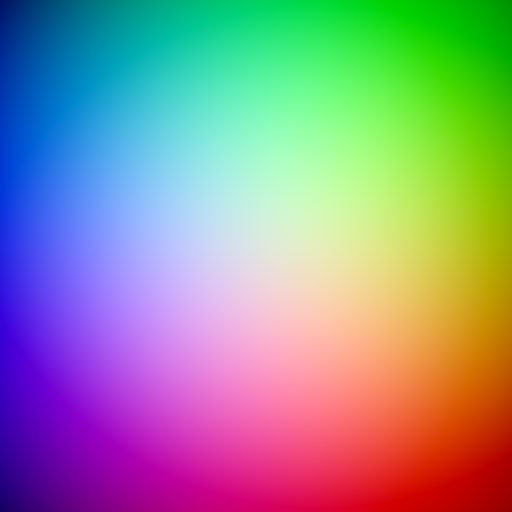
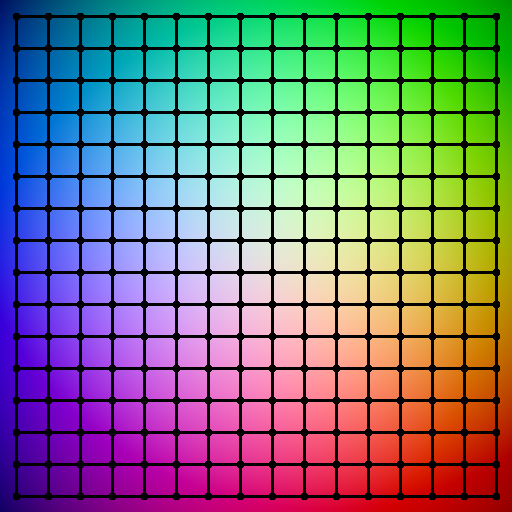
Add shapes file to graph maze shapes

Changed region(s): [[0.0312, 0.0312, 1.0, 1.0]]

diff --git a/shapes.py b/shapes.py
@@ -1,0 +1,88 @@
+from PIL import Image, ImageDraw
+from colors import colors
+
+class Node:
+
+  def __init__(self, coordinates=()):
+    self.coordinates = coordinates
+
+
+class Rectangle:
+
+  def __init__(self, x_units, y_units):
+    self.x_units = x_units
+    self.y_units = y_units
+    self.init_nodes_and_edges()
+
+  def init_nodes_and_edges(self):
+    self.nodes = set()
+    self.edges = set()
+    
+    # first node
+    if self.x_units >= 1 and self.y_units >= 1:
+      start_node = Node((0,0))
+      self.nodes.add(start_node)
+
+    # first row
+    start_row = []
+    prev_node = start_node
+    for x in range(1, self.x_units):
+      new_node = Node((x,0))
+      self.nodes.add(new_node)
+      self.edges.add(frozenset([new_node, prev_node]))
+      start_row.append(new_node)
+      prev_node = new_node
+
+    # first column
+    prev_col = []
+    prev_node = start_node
+    for y in range(1, self.y_units):
+      new_node = Node((0,y))
+      self.nodes.add(new_node)
+      self.edges.add(frozenset([new_node, prev_node]))
+      prev_col.append(new_node)
+      prev_node = new_node
+
+    # remaining grid
+    prev_x = start_row[0] if len(start_row) > 0 else None
+    for x in range(1, self.x_units):
+      new_col = []
+      prev_y = prev_col[0] if len(prev_col) > 0 else None
+      for y in range(1, self.y_units):
+        new_node = Node((x,y))
+        self.nodes.add(new_node)
+        self.edges.add(frozenset([new_node, prev_x]))
+        self.edges.add(frozenset([new_node, prev_y]))
+        new_col.append(new_node)
+        if y < self.y_units-1:
+          prev_y = prev_col[y]
+        prev_x = new_node
+      prev_col = new_col
+      if x < self.x_units-1:
+        prev_x = start_row[x] 
+
+  def calc_point(self, node, width, height):
+    x, y = node.coordinates
+    center_x = width//2
+    center_y = height//2
+    unit_length = min(width//self.x_units, height//self.y_units)
+    start_x = center_x - ((self.x_units-1) * unit_length)//2
+    start_y = center_y - ((self.y_units-1) * unit_length)//2
+    return (start_x + x*unit_length, start_y + y*unit_length)
+
+  def draw_rect(self, img):
+    width, height = img.size
+    point_radius = 3
+    draw = ImageDraw.Draw(img)
+    for node in self.nodes:
+      x, y = self.calc_point(node, width, height)
+      draw.ellipse(
+        (x-point_radius, y-point_radius, x+point_radius, y+point_radius),
+        fill=colors['black']
+      )
+    # TODO: move drawing edges to a new function
+    for edge in self.edges:
+      points = []
+      for node in edge:
+        points.append(self.calc_point(node, width, height))
+      draw.line(points, fill=colors['black'], width=point_radius)

diff --git a/maze.py b/maze.py
@@ -1,12 +1,16 @@
 from PIL import Image, ImageDraw
 from colors import colors
 from backgrounds import draw_background, rgb_gradient
+from shapes import Rectangle
 
 length = 512
 white = colors['white']
 img = Image.new('RGB', (length, length), white)
 
 draw_background(rgb_gradient, img)
+
+rect = Rectangle(16, 16)
+rect.draw_rect(img)
 
 # TODO: make maze
 
